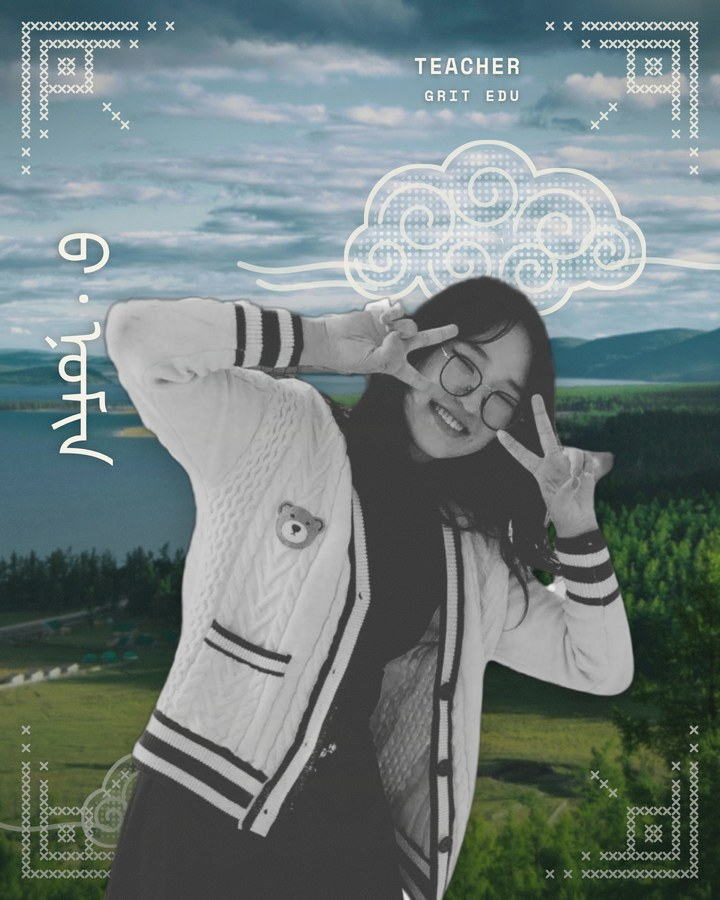
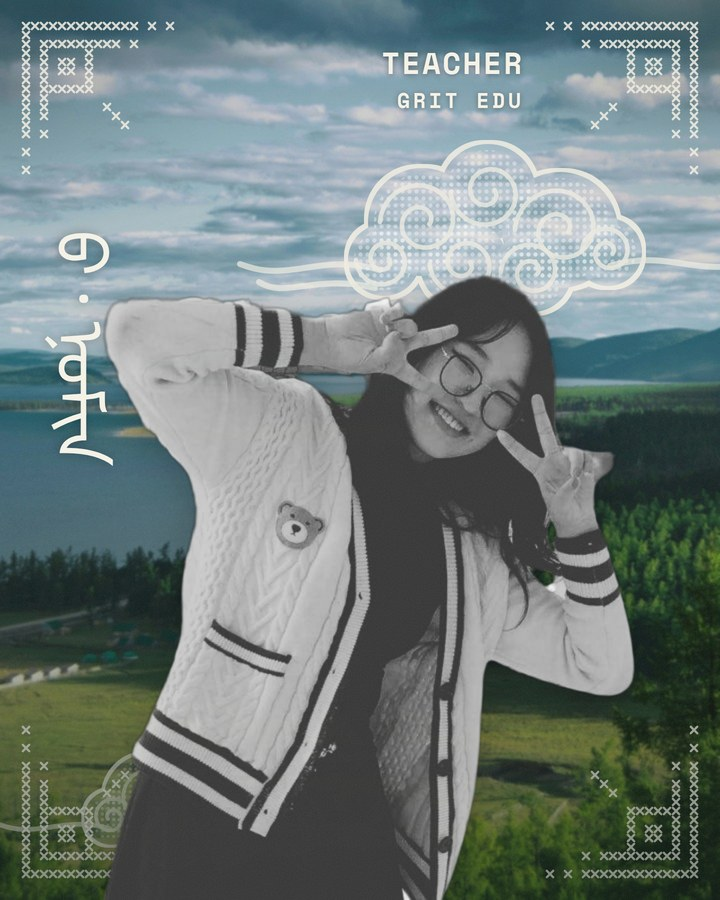
Team photos: larger role labels
Claude-Session: https://claude.ai/code/session_015w2YeaPuoH2UidzmstFP66

Changed region(s): [[0.5194, 0.0311, 0.7333, 0.1244]]

diff --git a/index.html b/index.html
@@ -342,49 +342,49 @@
       </div>
       <div class="marquee" data-reveal>
         <a class="member" href="member.html?m=bayarmagnai">
-          <div class="member__photo"><img src="assets/img/team-bayarmagnai.jpg?v=5" alt="Bayarmagnai Usukhgerel, Founder of GRIT" loading="lazy"></div>
+          <div class="member__photo"><img src="assets/img/team-bayarmagnai.jpg?v=6" alt="Bayarmagnai Usukhgerel, Founder of GRIT" loading="lazy"></div>
           <p class="member__name">Bayarmagnai Usukhgerel</p>
           <p class="member__school">Founder of GRIT</p>
         </a>
         <a class="member" href="member.html?m=namuunbayar">
-          <div class="member__photo"><img src="assets/img/team-1.jpg?v=5" alt="M. Namuunbayar, Graphic Designer, GRIT EDU program" loading="lazy"></div>
+          <div class="member__photo"><img src="assets/img/team-1.jpg?v=6" alt="M. Namuunbayar, Graphic Designer, GRIT EDU program" loading="lazy"></div>
           <p class="member__name">M. Namuunbayar</p>
           <p class="member__school">Graphic Designer, GRIT EDU program</p>
         </a>
         <a class="member" href="member.html?m=anar">
-          <div class="member__photo"><img src="assets/img/team-2.jpg?v=5" alt="B. Anar, Teacher, GRIT EDU program" loading="lazy"></div>
+          <div class="member__photo"><img src="assets/img/team-2.jpg?v=6" alt="B. Anar, Teacher, GRIT EDU program" loading="lazy"></div>
           <p class="member__name">B. Anar</p>
           <p class="member__school">Teacher, GRIT EDU program</p>
         </a>
         <a class="member" href="member.html?m=munkhdalai">
-          <div class="member__photo"><img src="assets/img/team-3.jpg?v=5" alt="B. Munkhdalai, Teacher, GRIT EDU program" loading="lazy"></div>
+          <div class="member__photo"><img src="assets/img/team-3.jpg?v=6" alt="B. Munkhdalai, Teacher, GRIT EDU program" loading="lazy"></div>
           <p class="member__name">B. Munkhdalai</p>
           <p class="member__school">Teacher, GRIT EDU program</p>
         </a>
         <a class="member" href="member.html?m=enkhgerel">
-          <div class="member__photo"><img src="assets/img/team-4.jpg?v=5" alt="O. Enkhgerel, Manager, GRIT EDU program" loading="lazy"></div>
+          <div class="member__photo"><img src="assets/img/team-4.jpg?v=6" alt="O. Enkhgerel, Manager, GRIT EDU program" loading="lazy"></div>
           <p class="member__name">O. Enkhgerel</p>
           <p class="member__school">Manager, GRIT EDU program</p>
         </a>
         <a class="member" href="member.html?m=tulga">
-          <div class="member__photo"><img src="assets/img/team-5.jpg?v=5" alt="B. Tulga, Teacher, GRIT EDU program" loading="lazy"></div>
+          <div class="member__photo"><img src="assets/img/team-5.jpg?v=6" alt="B. Tulga, Teacher, GRIT EDU program" loading="lazy"></div>
           <p class="member__name">B. Tulga</p>
           <p class="member__school">Teacher, GRIT EDU program</p>
         </a>
         <!-- hidden for now
         <a class="member" href="member.html?m=batzorigt">
-          <div class="member__photo"><img src="assets/img/team-batzorigt.jpg?v=5" alt="G. Batzorigt, Teacher, GRIT EDU program" loading="lazy"></div>
+          <div class="member__photo"><img src="assets/img/team-batzorigt.jpg?v=6" alt="G. Batzorigt, Teacher, GRIT EDU program" loading="lazy"></div>
           <p class="member__name">G. Batzorigt</p>
           <p class="member__school">Teacher, GRIT EDU program</p>
         </a>
         -->
         <a class="member" href="member.html?m=nomin">
-          <div class="member__photo"><img src="assets/img/team-nomin.jpg?v=5" alt="B. Nomin, Teacher, GRIT EDU program" loading="lazy"></div>
+          <div class="member__photo"><img src="assets/img/team-nomin.jpg?v=6" alt="B. Nomin, Teacher, GRIT EDU program" loading="lazy"></div>
           <p class="member__name">B. Nomin</p>
           <p class="member__school">Teacher, GRIT EDU program</p>
         </a>
         <a class="member" href="member.html?m=namuun">
-          <div class="member__photo"><img src="assets/img/team-namuun.jpg?v=5" alt="J. Namuun, Teacher, GRIT EDU program" loading="lazy"></div>
+          <div class="member__photo"><img src="assets/img/team-namuun.jpg?v=6" alt="J. Namuun, Teacher, GRIT EDU program" loading="lazy"></div>
           <p class="member__name">J. Namuun</p>
           <p class="member__school">Teacher, GRIT EDU program</p>
         </a>

diff --git a/js/team.js b/js/team.js
@@ -4,63 +4,63 @@ const TEAM = {
   bayarmagnai: {
     name: "Bayarmagnai Usukhgerel",
     role: "Founder of GRIT",
-    photo: "assets/img/team-bayarmagnai.jpg?v=5",
+    photo: "assets/img/team-bayarmagnai.jpg?v=6",
     responsibilities: "Program lead: finance, organization, university application classes",
     bio: [],
   },
   namuunbayar: {
     name: "M. Namuunbayar",
     role: "Graphic Designer",
-    photo: "assets/img/team-1.jpg?v=5",
+    photo: "assets/img/team-1.jpg?v=6",
     responsibilities: "Design and content",
     bio: [],
   },
   anar: {
     name: "B. Anar",
     role: "Teacher",
-    photo: "assets/img/team-2.jpg?v=5",
+    photo: "assets/img/team-2.jpg?v=6",
     responsibilities: "Teaching",
     bio: [],
   },
   munkhdalai: {
     name: "B. Munkhdalai",
     role: "English Teacher",
-    photo: "assets/img/team-3.jpg?v=5",
+    photo: "assets/img/team-3.jpg?v=6",
     responsibilities: "English, country information",
     bio: [],
   },
   enkhgerel: {
     name: "O. Enkhgerel",
     role: "Program Manager",
-    photo: "assets/img/team-4.jpg?v=5",
+    photo: "assets/img/team-4.jpg?v=6",
     responsibilities: "Organization, country information",
     bio: [],
   },
   tulga: {
     name: "B. Tulga",
     role: "English Teacher",
-    photo: "assets/img/team-5.jpg?v=5",
+    photo: "assets/img/team-5.jpg?v=6",
     responsibilities: "English, cooking",
     bio: [],
   },
   batzorigt: {
     name: "G. Batzorigt",
     role: "Teacher",
-    photo: "assets/img/team-batzorigt.jpg?v=5",
+    photo: "assets/img/team-batzorigt.jpg?v=6",
     responsibilities: "Teaching",
     bio: [],
   },
   nomin: {
     name: "B. Nomin",
     role: "Teacher",
-    photo: "assets/img/team-nomin.jpg?v=5",
+    photo: "assets/img/team-nomin.jpg?v=6",
     responsibilities: "English, country information",
     bio: [],
   },
   namuun: {
     name: "J. Namuun",
     role: "Teacher",
-    photo: "assets/img/team-namuun.jpg?v=5",
+    photo: "assets/img/team-namuun.jpg?v=6",
     responsibilities: "University applications, country information",
     bio: [],
   },

diff --git a/member.html b/member.html
@@ -57,7 +57,7 @@
 
   <main>
     <section class="container profile" id="profile">
-      <div class="profile__photo" data-reveal><img id="member-photo" src="assets/img/team-1.jpg?v=5" alt=""></div>
+      <div class="profile__photo" data-reveal><img id="member-photo" src="assets/img/team-1.jpg?v=6" alt=""></div>
       <div>
         <p class="eyebrow" data-reveal>GRIT team · GRIT EDU program</p>
         <h1 class="profile__name" id="member-name" data-reveal>M. Namuunbayar</h1>
